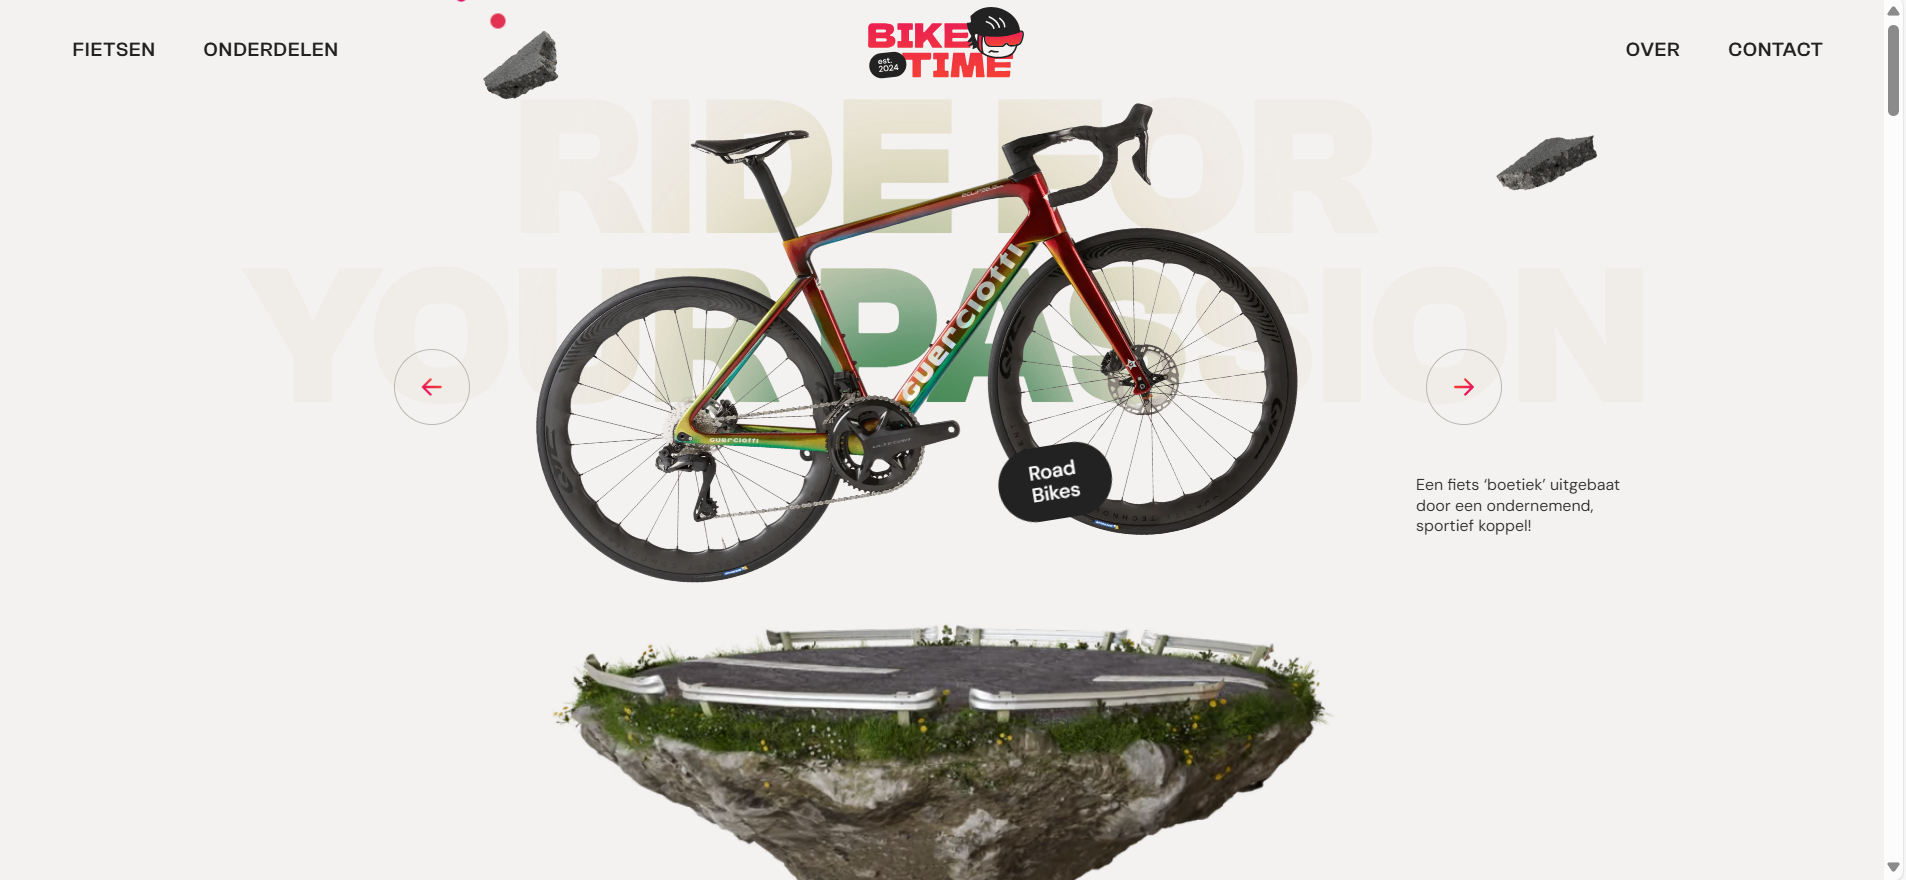
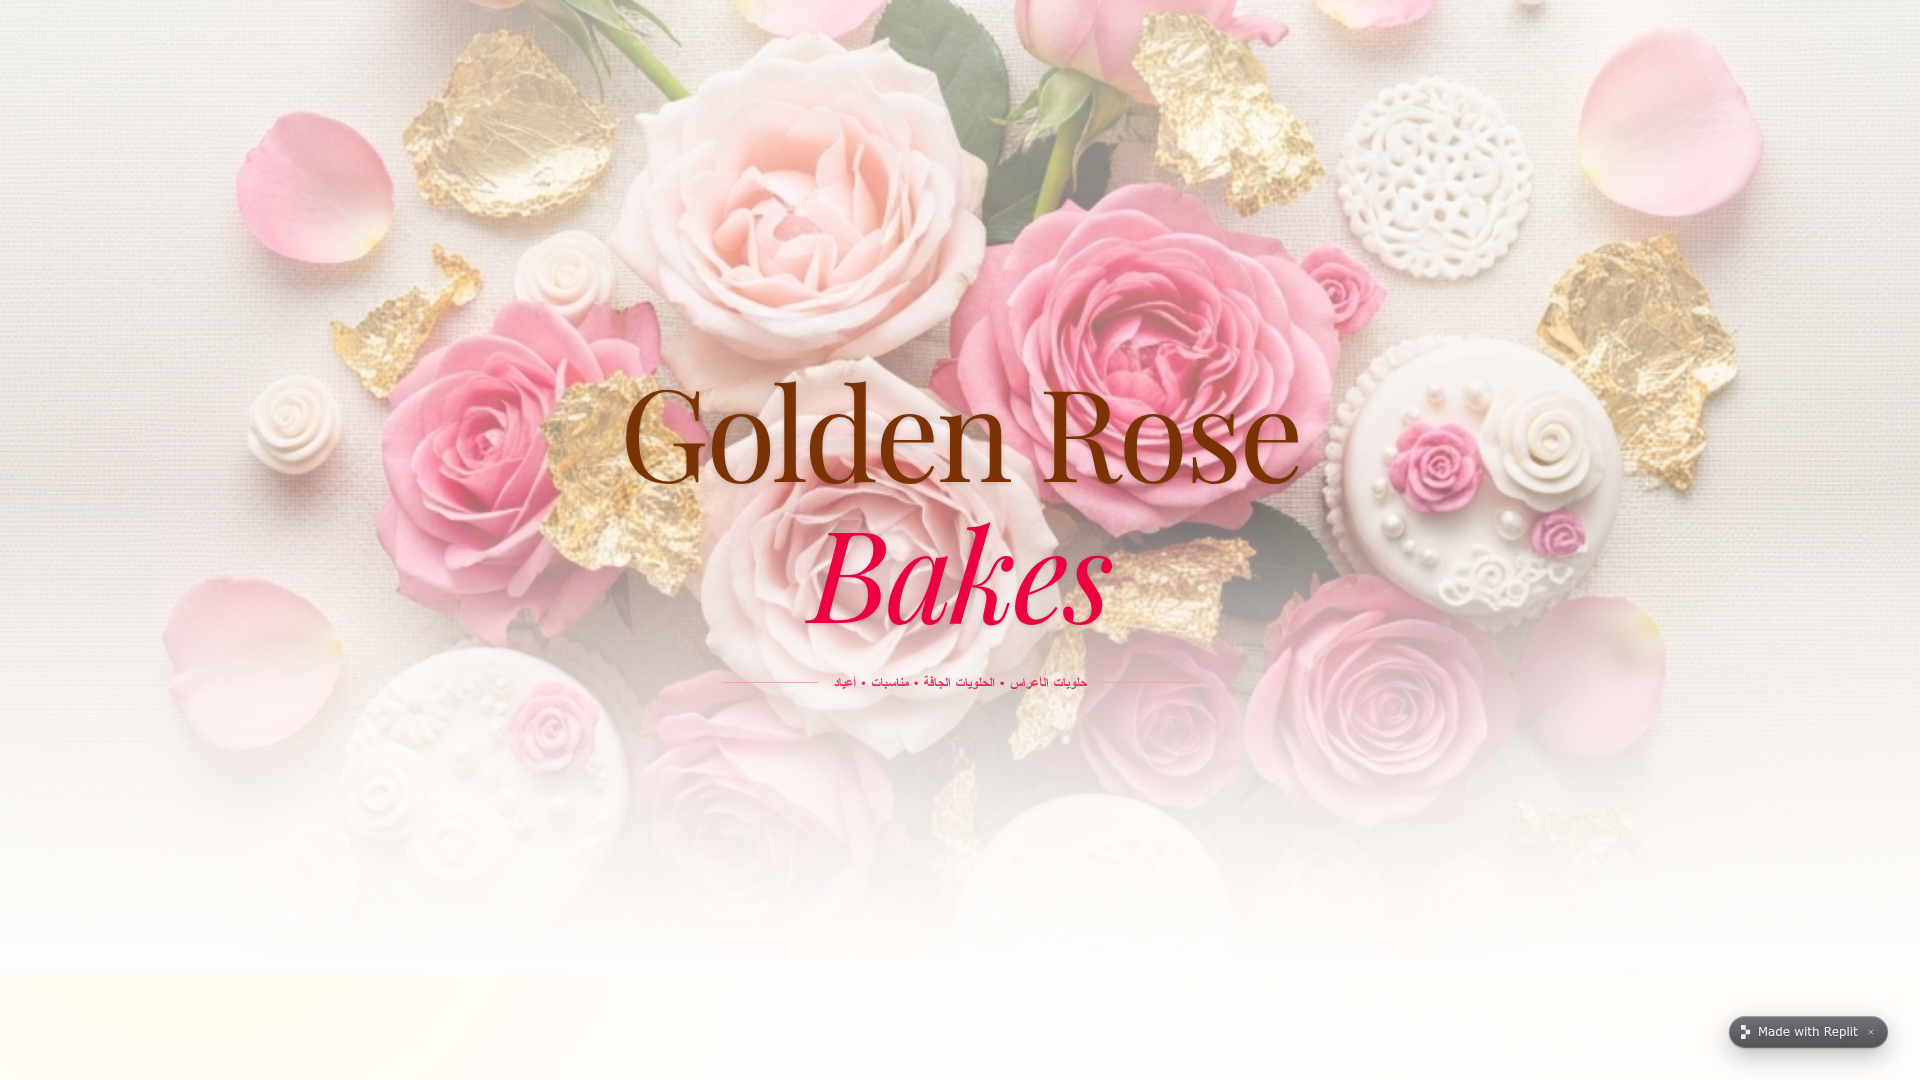
Update project image and fix styling in Projects component
Replit-Commit-Author: Agent

diff --git a/src/components/Projects.tsx b/src/components/Projects.tsx
@@ -13,11 +13,11 @@ const Projects = () => {
   const projects = [
     {
       id: 1,
-      title: "Bike-time – Immersive Experience",
-      description: "Developed an interactive biking experience website featuring dynamic animations, route exploration, performance stats, and a sleek responsive interface for riders and enthusiasts.",
+      title: "Golden Rose Bakes – Bakery & Sweets Shop",
+      description: "An elegant bakery storefront for a wedding sweets and pastry shop, featuring a romantic rose-gold aesthetic, an Arabic-friendly layout showcasing wedding sweets, dry pastries, and occasion desserts, built to attract and convert local customers.",
       image: "/Images/project-1.jpg",
-      tech: ["React", "Node.js", "Framer Motion", "Express.js", "PostgreSQL", "Tailwind CSS", "Docker"],
-      liveUrl: "",
+      tech: ["React", "Tailwind CSS", "Vite"],
+      liveUrl: "https://golden-rose-portfolio--oussamaanis2005.replit.app/",
       githubUrl: ""
     },
 